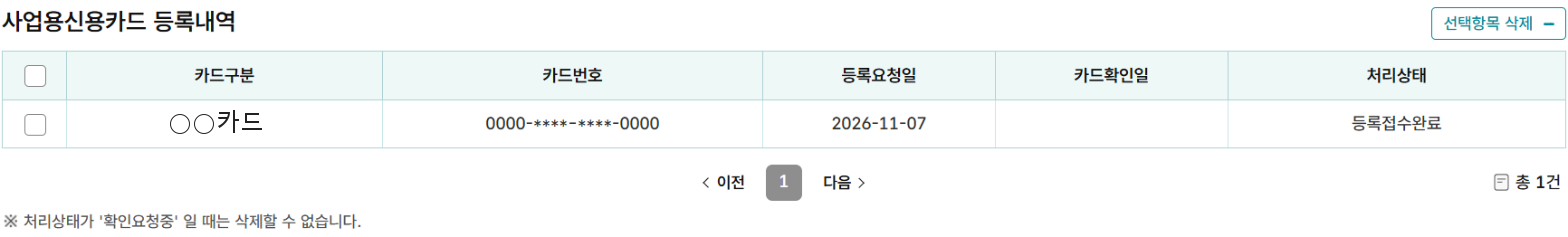
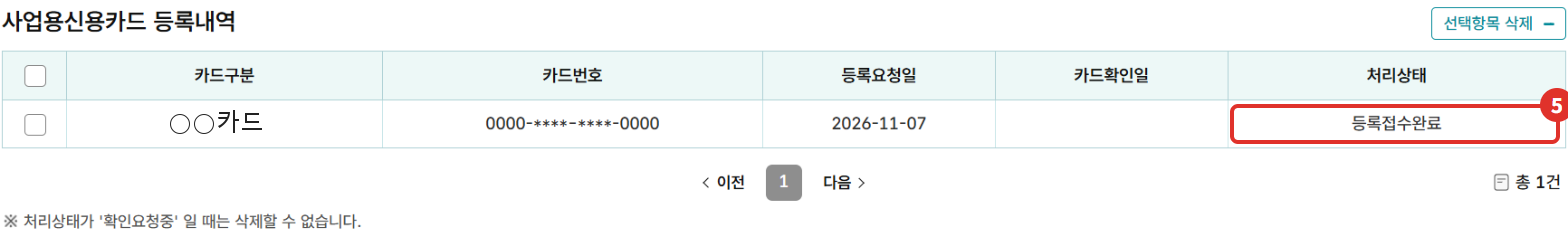
사업용 카드 글 캡처에 빨간 순서 표시, 본문 단계 번호 맞춤

Changed region(s): [[0.7812, 0.3544, 1.0, 0.5316], [0.7812, 0.5907, 1.0, 0.6203]]

diff --git a/_posts/2026-11-07-hometax-business-card.md b/_posts/2026-11-07-hometax-business-card.md
@@ -54,20 +54,20 @@ screen_checked: 2026-11
 > 📅 **2026년 11월 기준 화면**이에요(운영자 본인 사업자 계정). 메뉴 이름은 바뀔 수 있어요.
 
 1. 홈택스에 **사업자로 로그인**해요.
-2. **전체메뉴 > 계산서·영수증·카드 > 신용카드 매입 > 사업용 신용카드 등록 및 조회**를 눌러요.
+2. **전체메뉴**에서 ① **계산서·영수증·카드** → 신용카드 매입의 ② **사업용 신용카드 등록 및 조회**를 눌러요.
 
    ![홈택스 전체메뉴의 계산서·영수증·카드에서 신용카드 매입, 사업용 신용카드 등록 및 조회 위치](/assets/images/posts/hometax-business-card/01-allmenu.png)
 
-3. 위쪽 **사업용신용카드 등록 안내**를 읽고, **개인신용정보의 제공 동의서**에서 **동의함**에 체크해요.
+3. 위쪽 **사업용신용카드 등록 안내**를 읽고, **개인신용정보의 제공 동의서**에서 ① **동의함**에 체크해요.
 
    ![사업용신용카드 등록 화면의 등록 안내(등록 가능·불가 카드)와 개인신용정보 제공 동의서 (사업자 정보는 가상값)](/assets/images/posts/hometax-business-card/02-notice.png)
 
-4. **카드사**를 고르고 **카드번호**를 넣어요. 카드번호 오류 때 문자를 받을 **휴대전화번호**도 꼭 넣어요 [1].
-5. **등록접수하기**를 눌러요.
+4. ② **카드사**를 고르고 **카드번호**를 넣어요. 카드번호 오류 때 문자를 받을 ③ **휴대전화번호**도 꼭 넣어요 [1].
+5. ④ **등록접수하기**를 눌러요.
 
    ![사업용신용카드번호 입력칸(카드사 선택·카드번호, 최대 50장), 휴대전화번호, 등록접수하기 버튼](/assets/images/posts/hometax-business-card/03-form.png)
 
-6. 아래 **사업용신용카드 등록내역**에 "등록접수완료"로 나오면 접수가 끝난 거예요. 카드확인일은 비어 있다가, 당월 등록한 카드는 **다음 달 10일경** 본인 일치 여부를 확인할 수 있어요 [1].
+6. 아래 **사업용신용카드 등록내역**의 ⑤ 처리상태에 "등록접수완료"로 나오면 접수가 끝난 거예요. 카드확인일은 비어 있다가, 당월 등록한 카드는 **다음 달 10일경** 본인 일치 여부를 확인할 수 있어요 [1].
 
    ![사업용신용카드 등록내역: 카드구분, 카드번호(가림), 등록요청일 2026-11-07, 처리상태 등록접수완료](/assets/images/posts/hometax-business-card/04-registered.png)
 
@@ -80,7 +80,7 @@ screen_checked: 2026-11
 - 사용내역은 **등록한 달 사용분부터** 조회돼요. 화면 예시로는 9월 중 등록하면 10월 15일경부터 9월 사용분이 보인다고 안내돼 있어요 [2].
 - 카드사와 가맹점 사이 처리 지연 등으로 **일부 자료가 빠질 수 있고**, 특히 매월 말일 승인분은 다음 달에 들어오는 경우가 많다고 해요 [2].
 
-**매입세액 공제 확인/변경** 화면에서는 거래 건마다 공제할지 말지를 정해요.
+① **매입세액 공제 확인/변경** 화면에서는 거래 건마다 공제할지 말지를 정해요. ① 조회기간(일별·월별·분기별)과 ② 공제여부를 고르고 ③ **조회**를 눌러요.
 
 ![사업용신용카드 매입세액 공제 확인/변경 화면: 공제·불공제 분류 안내, 조회기간, 공제여부, 선택불공제·당연불공제 업종 버튼 (사업자 정보는 가상값)](/assets/images/posts/hometax-business-card/06-deduction.png)
 
@@ -90,7 +90,7 @@ screen_checked: 2026-11
 | 선택불공제 | 판매자가 불분명한 오픈마켓 결제, 숙박공유업 등은 불공제로 분류되지만, 사업 관련이면 공제로 바꿀 수 있어요 [2] |
 | 공제 | 공제로 분류돼도 **사업 관련성과 세금계산서 수취 여부를 확인한 뒤** 정하라고 안내돼요 [2] |
 
-선택불공제 항목을 공제로 바꾸는 순서는 화면 안내대로 **① 조회 → ② 체크박스 선택 → ③ 공제여부 결정에서 공제로 변경 → ④ 아래 변경하기**예요 [2].
+선택불공제 항목을 공제로 바꾸는 순서는 화면 안내대로 **조회 → 체크박스 선택 → 공제여부 결정에서 공제로 변경 → 아래 변경하기**예요 [2].
 
 ## 얼마나 공제되나요? (가상 예시)
 

diff --git a/_posts/2026-11-07-vat-return-checklist-january.md b/_posts/2026-11-07-vat-return-checklist-january.md
@@ -70,6 +70,8 @@ screen_checked: 2026-11
 
 ![사업용신용카드 매입세액 공제 확인/변경 화면: 공제·불공제 분류 안내, 조회기간, 공제여부, 선택불공제·당연불공제 업종 버튼 (사업자 정보는 가상값)](/assets/images/posts/hometax-business-card/06-deduction.png)
 
+① 조회기간과 ② 공제여부를 고르고 ③ **조회**를 누르면 거래 건별 분류가 나와요 [9].
+
 **현금영수증**: 계산서·영수증·카드 > 사업자 매입·지출증빙 조회/변경 > **현금영수증 세액공제 확인/변경** (화면 제목은 "현금영수증 매입세액 공제 확인/변경")
 
 1. 일별·월별·**분기별** 탭 중 하나를 골라 ① 조회기간을 정해요. 10~12월을 한 번에 보려면 분기별 탭이 편해요.
